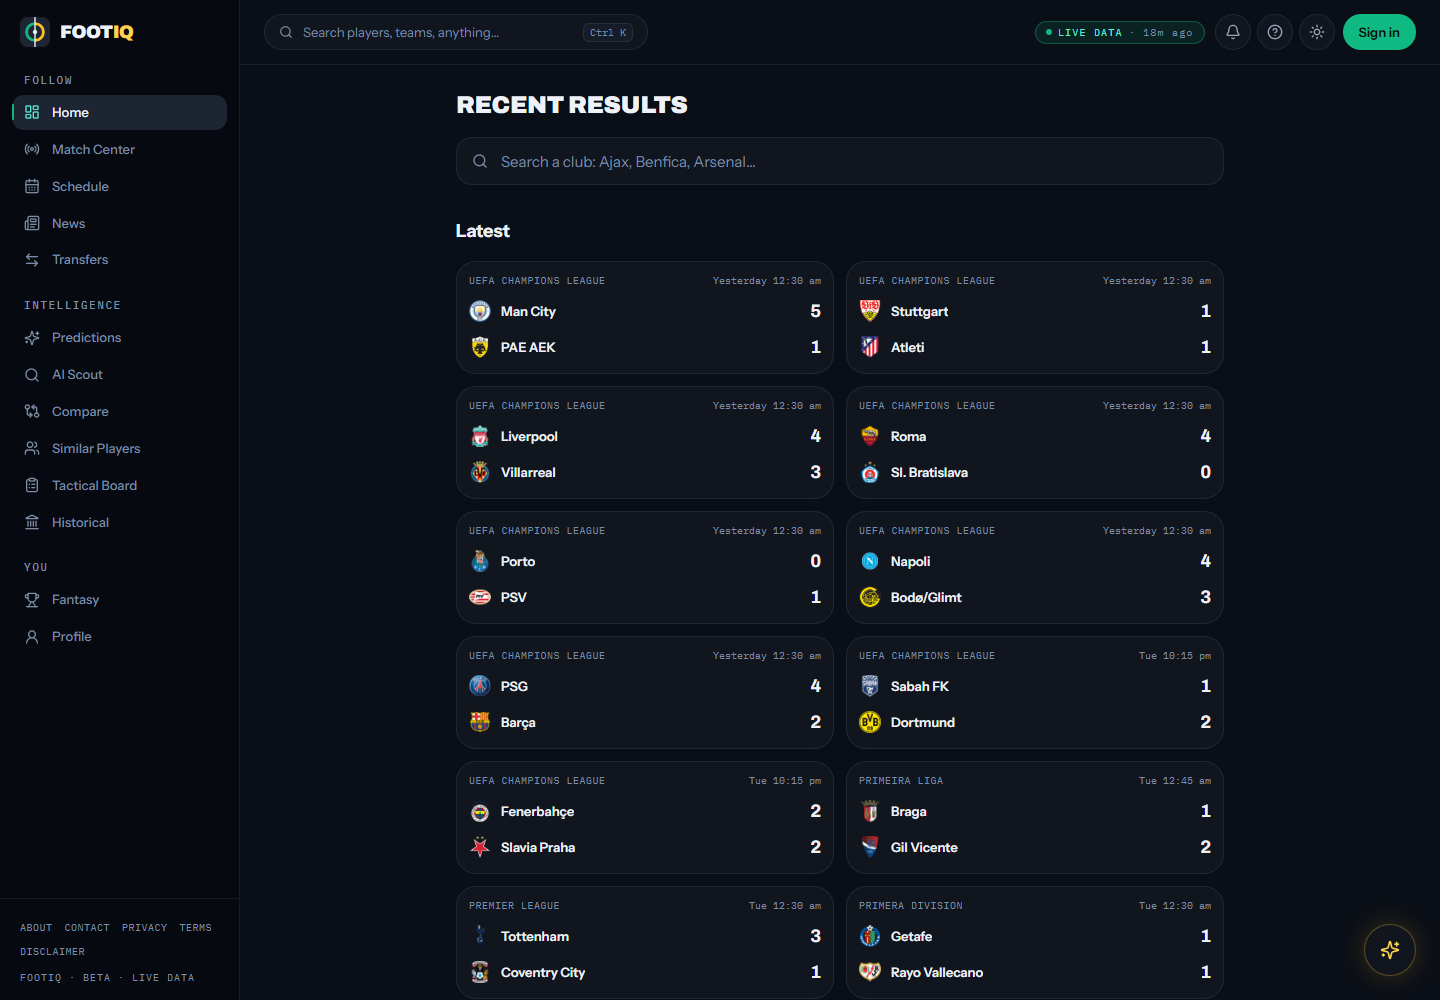
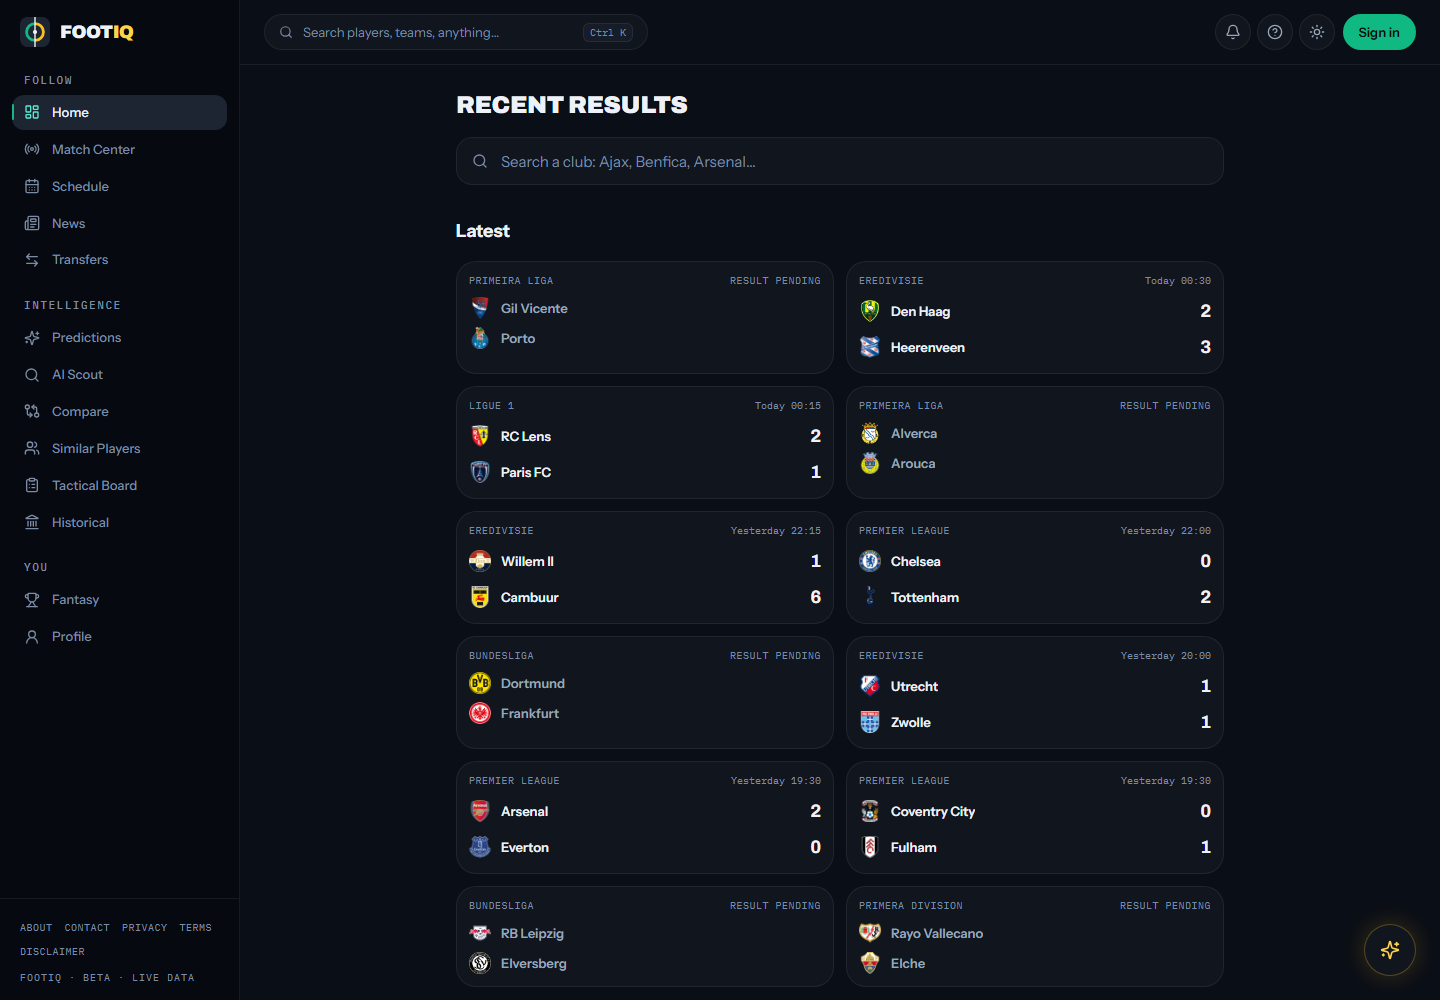
docs: refresh README screenshots and redraw How It Works with RAG
- Retake the 12 desktop screenshots from the live site at 1440x1000:
  the top bar no longer has the Live data pill, and the data is current
  (match page: Aston Villa 2-1 Manchester City; predictions: Liverpool v
  Brighton). Mobile shots are unchanged; the pill never showed on phones.
- Replace the Mermaid diagram with a rendered How It Works image that
  adds the Guardian source, the 3-hourly knowledge sync, the pgvector
  knowledge base, cited AI answers and the retrieval eval results.
- scripts/how-it-works.mjs renders it from code (app icons and fonts),
  so the diagram can be updated without redrawing it by hand.

diff --git a/README.md b/README.md
@@ -41,12 +41,12 @@ Every AI output carries its date, its sources, and a chip when it comes from the
     <td width="50%">
       <h3>Match facts</h3>
       <p>Full-time score, each side's form going into the match, key players and venue info. Built from free data.</p>
-      <img src="docs/screenshots/match.png" alt="Match facts page for Man City 5–1 PAE AEK">
+      <img src="docs/screenshots/match.png" alt="Match facts page for Aston Villa 2–1 Manchester City">
     </td>
     <td width="50%">
       <h3>AI predictions</h3>
       <p>A Poisson goals model fed by this season's real tables. Probabilities sit beside the numbers they came from.</p>
-      <img src="docs/screenshots/predictions.png" alt="Predictions page: Ipswich vs Nottingham win/draw/loss probabilities and inputs">
+      <img src="docs/screenshots/predictions.png" alt="Predictions page: Liverpool vs Brighton win/draw/loss probabilities and inputs">
     </td>
   </tr>
   <tr>
@@ -115,27 +115,9 @@ The site has dark and light themes and a bottom nav on phones. It aims for WCAG 
 
 ## How it works
 
-```mermaid
-flowchart LR
-  subgraph Sources["Free data sources"]
-    FD["football-data.org<br/>fixtures · tables · squads"]
-    FPL["Fantasy Premier League<br/>players · fantasy"]
-    RSS["BBC · Guardian · Sky<br/>RSS news"]
-    GU["Guardian Open Platform<br/>full-text articles"]
-  end
-  subgraph Worker["API · Hono on Cloudflare Workers"]
-    CRON["Cron every 30 min<br/>sync jobs"] --> SNAP[("Snapshots<br/>Supabase Postgres")]
-    KCRON["Cron every 3 h<br/>validate · chunk · embed"] --> KB[("Knowledge base<br/>pgvector")]
-    API["/api/*"] --> SNAP
-    API --> KB
-    AI["AI explanations<br/>Gemini, cached"]
-  end
-  FD & FPL & RSS --> CRON
-  GU --> KCRON
-  WEB["React app<br/>Vercel"] --> API
-  WEB --> AUTH["Supabase Auth"]
-  API --> AI
-```
+<img src="docs/screenshots/how-it-works.png" alt="Architecture: free data sources (BBC, Guardian and Sky RSS; football-data.org; Fantasy Premier League) feed a 30-minute cron that writes snapshots to Supabase Postgres. Guardian Open Platform articles feed a 3-hourly knowledge sync that validates, chunks and embeds them into a pgvector knowledge base, measured by a 36-question retrieval eval. The /api/* routes read both stores and send the top-6 chunks to Gemini for cited answers. The React app on Vercel calls the API and Supabase Auth." width="100%">
+
+<sub>The diagram is code: <code>node scripts/how-it-works.mjs . &lt;chrome&gt; docs/screenshots/how-it-works.png</code> re-renders it.</sub>
 
 - **Live requests never hit external APIs.** Cron jobs sync providers into snapshots, and the API only serves those snapshots, so free-tier quotas depend on cron frequency, not traffic.
 - **Graceful degradation.** If a provider fails, the last snapshot stays. With no backend at all, the frontend falls back to bundled demo data.
